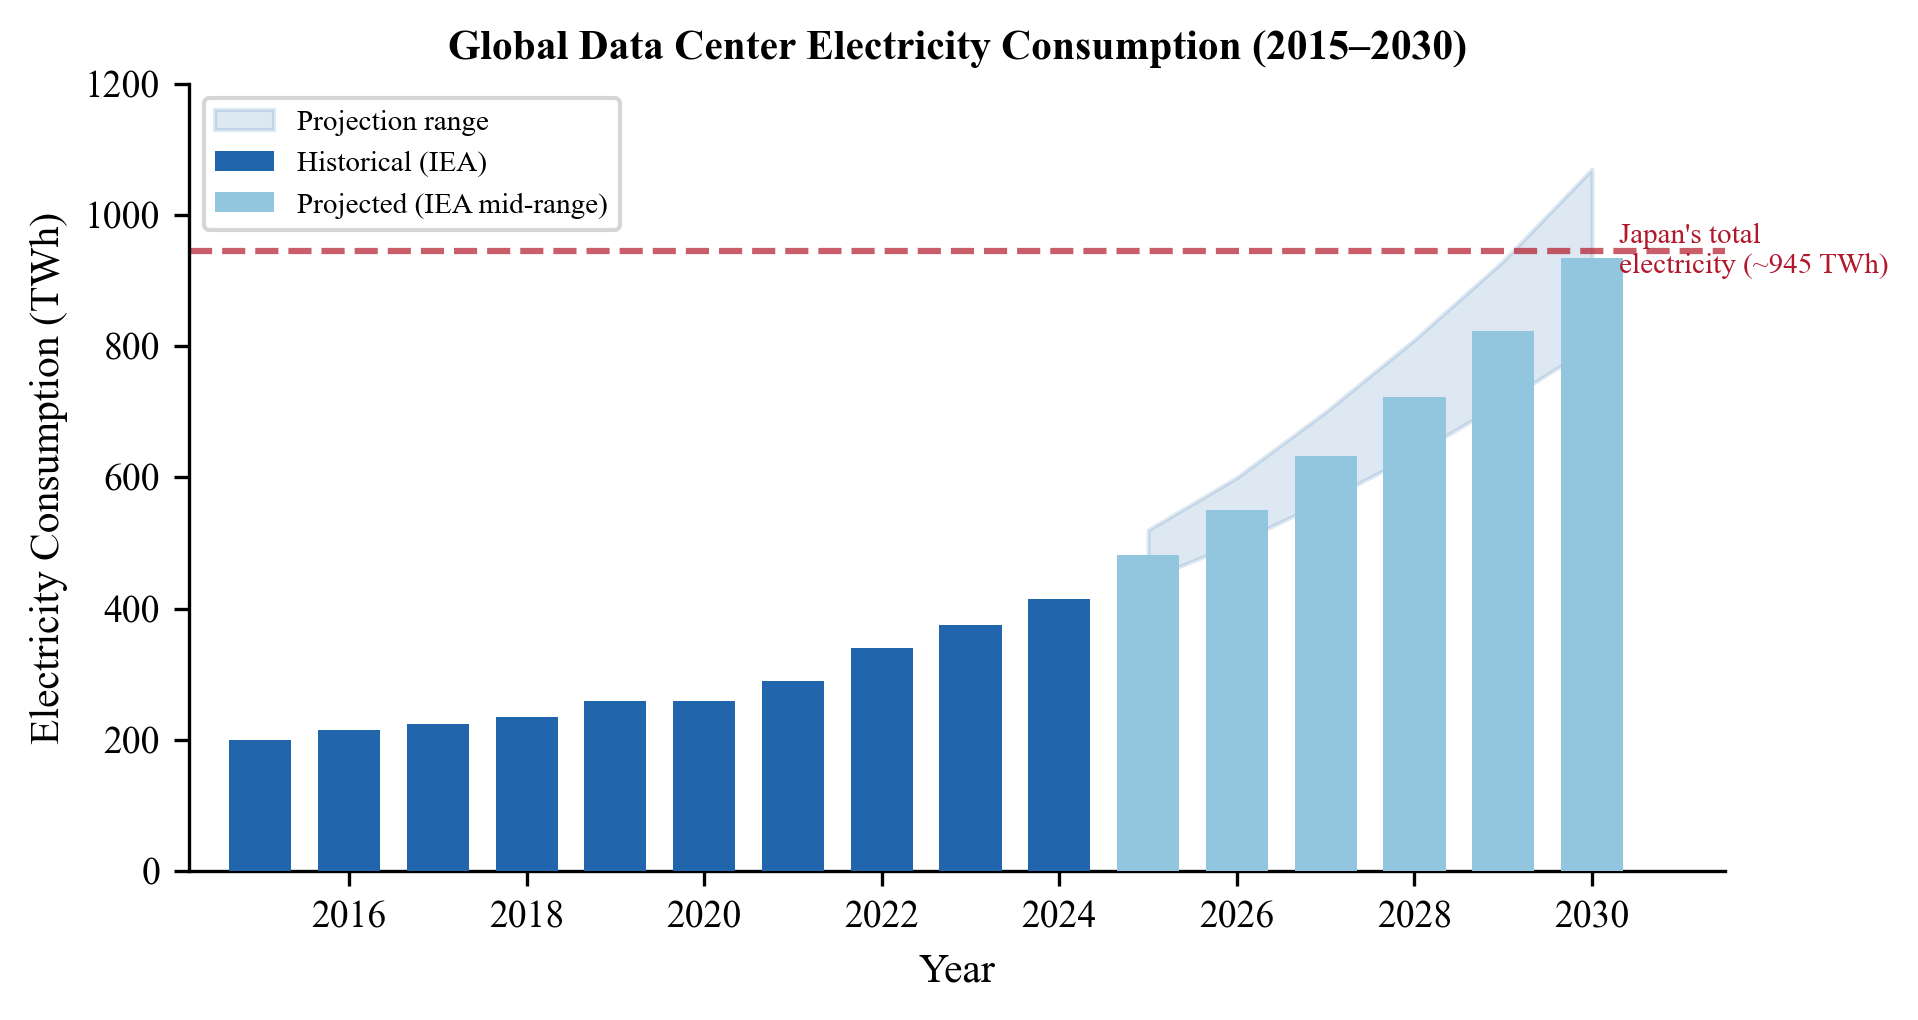
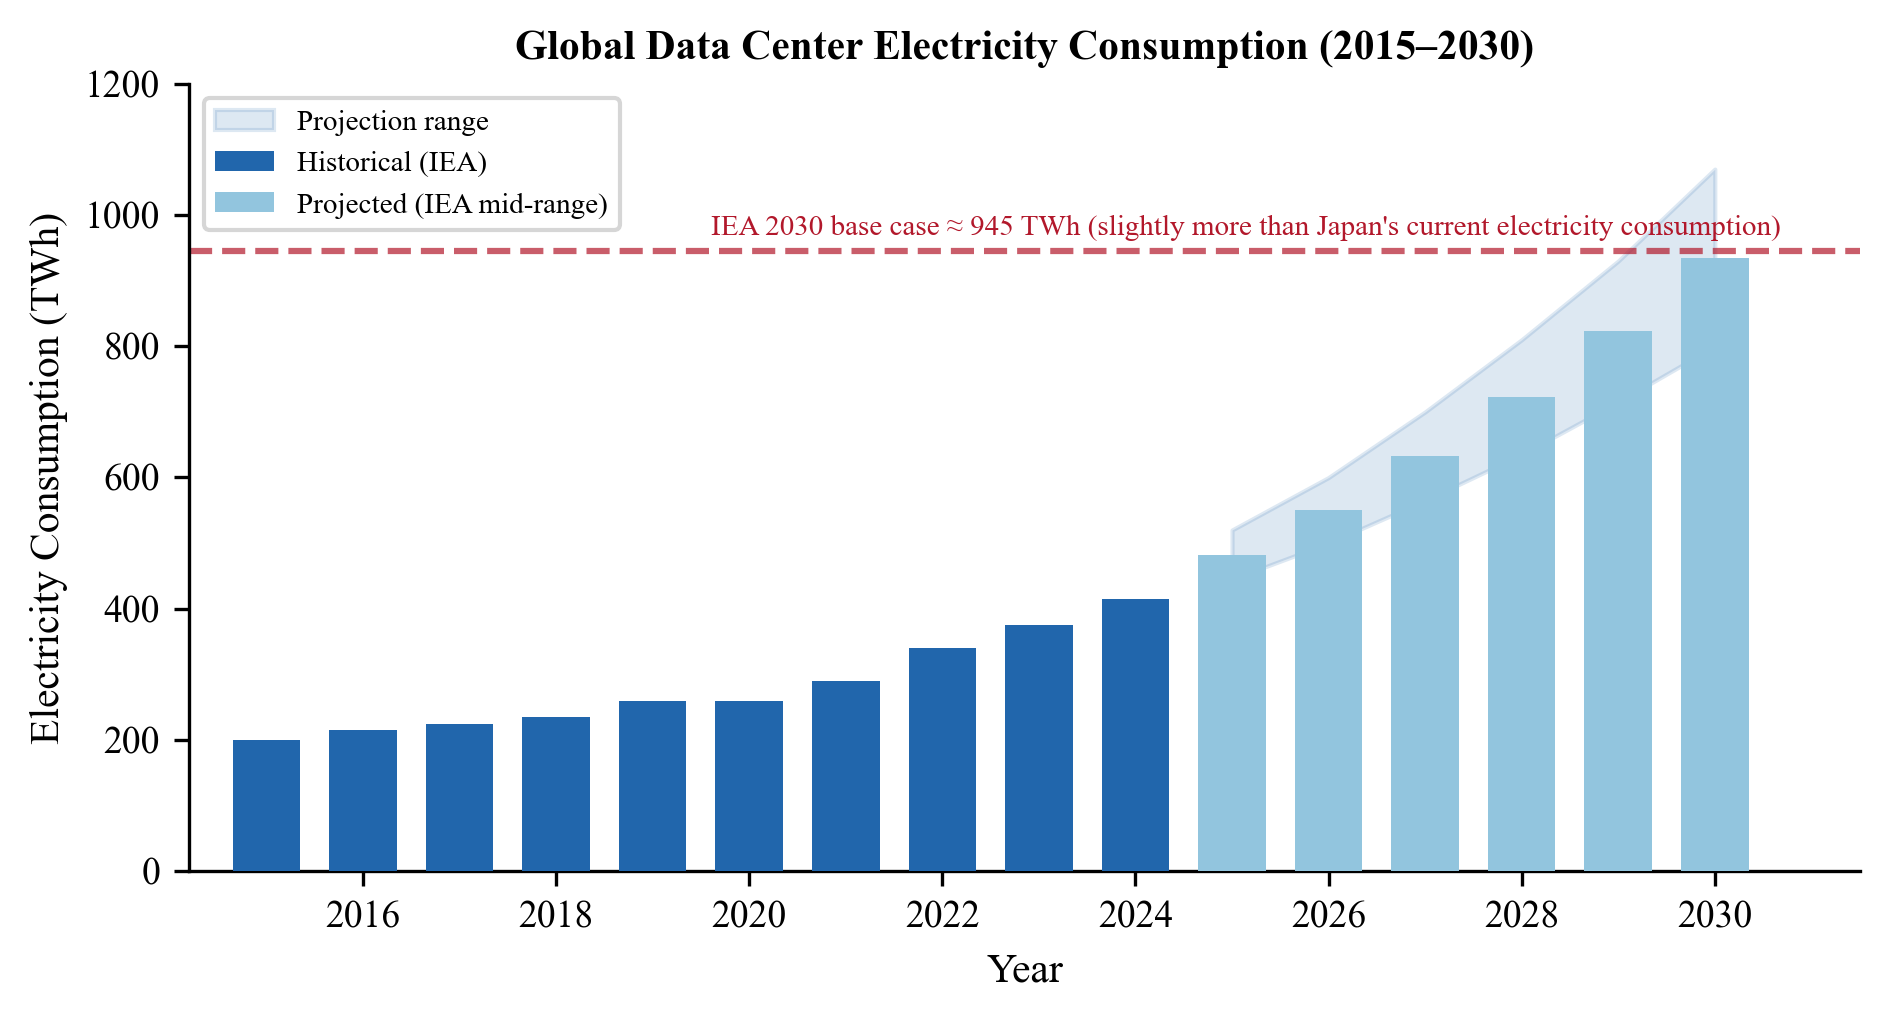
Figure 1: label dashed line as IEA 2030 base case, not Japan's consumption
The IEA describes ~945 TWh as slightly more than Japan's current electricity
consumption, so Japan should not be drawn at exactly 945 TWh.

diff --git a/04_generate_figures.py b/04_generate_figures.py
@@ -51,8 +51,11 @@ def fig01_global_electricity():
     ax.bar(proj_years, proj_mid, color=LT_BLUE, width=0.7, label="Projected (IEA mid-range)", zorder=3)
     ax.fill_between(proj_years, [l - 20 for l in proj_low], [h + 20 for h in proj_high],
                     alpha=0.15, color=BLUE, label="Projection range")
-    ax.axhline(y=945, color=RED, linestyle="--", lw=1.5, alpha=0.7)
-    ax.text(2030.3, 945, "Japan's total\nelectricity (~945 TWh)", fontsize=7, color=RED, va="center")
+    # IEA (2025): ~945 TWh in 2030 is "slightly more than the entire electricity consumption of Japan today"
+    ax.axhline(y=IEA_BASE_CASE_2030_TWH, color=RED, linestyle="--", lw=1.5, alpha=0.7)
+    ax.text(2019.6, IEA_BASE_CASE_2030_TWH + 15,
+            "IEA 2030 base case \u2248 945 TWh (slightly more than Japan's current electricity consumption)",
+            fontsize=7, color=RED, va="bottom", ha="left")
     ax.set_xlabel("Year")
     ax.set_ylabel("Electricity Consumption (TWh)")
     ax.set_title("Global Data Center Electricity Consumption (2015\u20132030)", fontweight="bold", fontsize=10)
